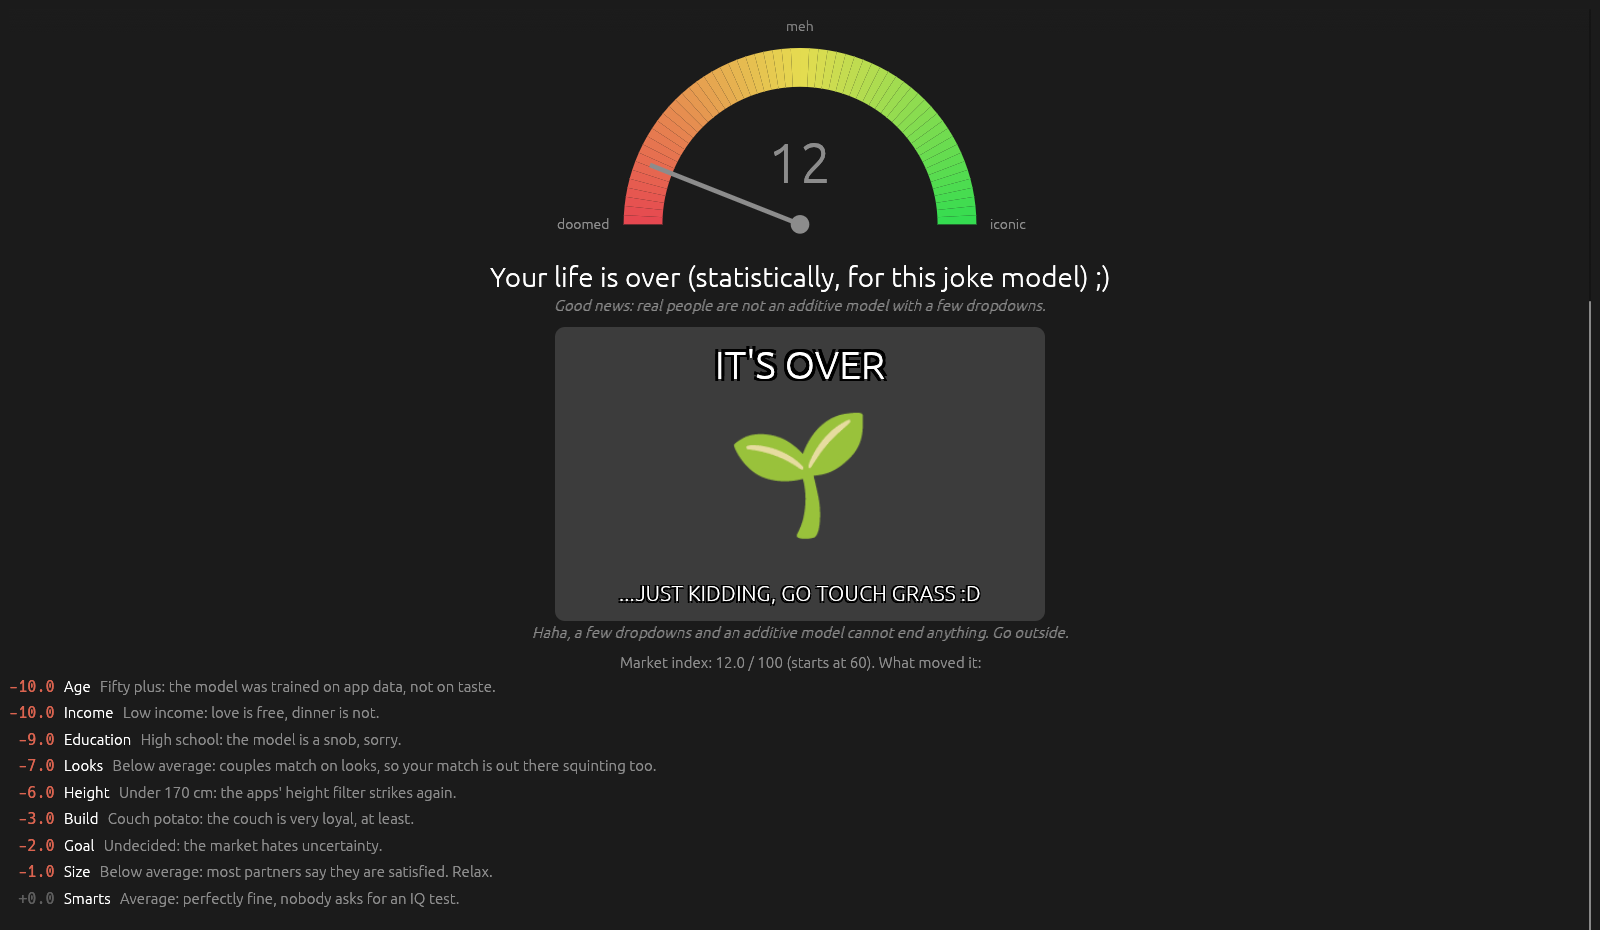
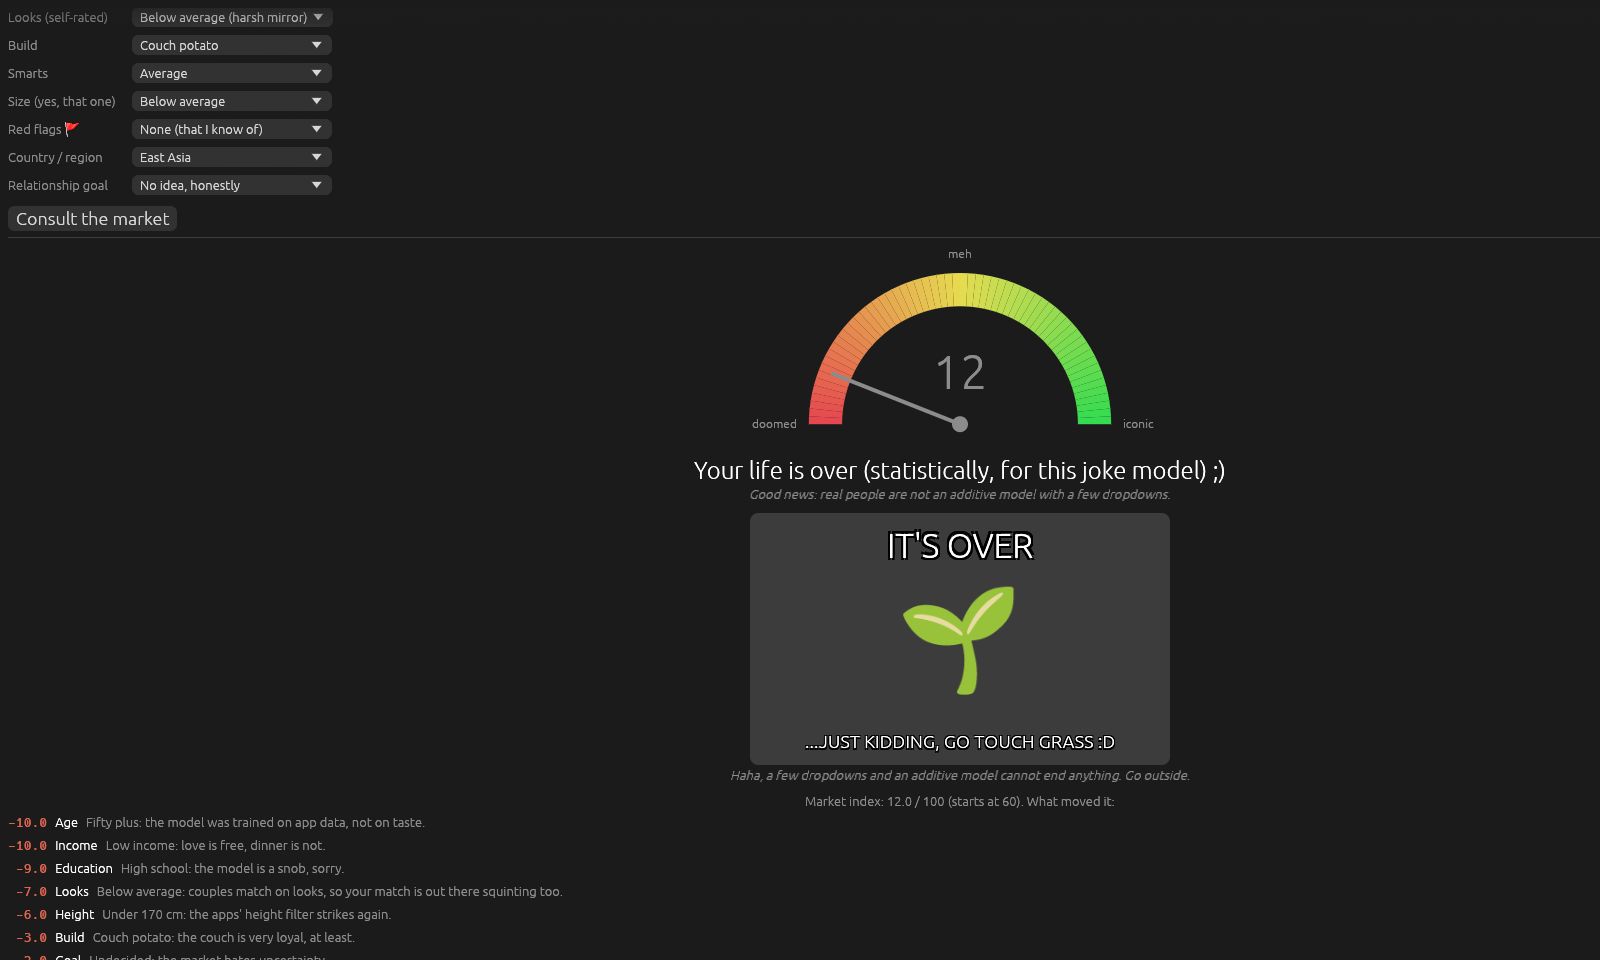
Meter: red flags input (first-date bonus, long-term penalty), screenshots retaken

diff --git a/app/src/model.rs b/app/src/model.rs
@@ -36,6 +36,9 @@
 //!  * The relationship goal reweights everything: short-term choices lean on
 //!    looks and build, long-term ones on status and smarts (Kenrick et al.
 //!    1990; Li & Kenrick 2006).
+//!  * Red flags (Dark Triad traits, literature_review.md section 11.10): a
+//!    small first-date bonus that turns into a long-term penalty (Jauk et
+//!    al. 2016; Dufner et al. 2013; Ataman et al. 2025). A joke, not advice.
 //!  * Ethnicity is deliberately not an input: the studies on it document
 //!    discrimination, and a score would repeat it (review, section 11.8).
 //!
@@ -377,6 +380,49 @@ impl Size {
     }
 }
 
+/// Self-rated red flags (narcissism, scheming, charming chaos). A joke input.
+#[derive(Debug, Clone, Copy, PartialEq, Eq, Hash)]
+pub enum RedFlags {
+    /// None that anyone has noticed.
+    None,
+    /// One or two.
+    AFew,
+    /// Several.
+    Several,
+    /// A whole parade.
+    Parade,
+}
+
+impl RedFlags {
+    /// Every variant, in display order.
+    pub const ALL: [RedFlags; 4] = [
+        RedFlags::None,
+        RedFlags::AFew,
+        RedFlags::Several,
+        RedFlags::Parade,
+    ];
+
+    /// Human-readable label.
+    pub const fn label(self) -> &'static str {
+        match self {
+            RedFlags::None => "None (that I know of)",
+            RedFlags::AFew => "A few",
+            RedFlags::Several => "Several",
+            RedFlags::Parade => "A whole parade 🚩",
+        }
+    }
+
+    /// Number of flags, 0 to 3.
+    const fn level(self) -> f32 {
+        match self {
+            RedFlags::None => 0.0,
+            RedFlags::AFew => 1.0,
+            RedFlags::Several => 2.0,
+            RedFlags::Parade => 3.0,
+        }
+    }
+}
+
 /// Everything the user enters.
 #[derive(Debug, Clone, Copy, PartialEq, Eq)]
 pub struct Profile {
@@ -398,6 +444,8 @@ pub struct Profile {
     pub smarts: Smarts,
     /// Penis size (men only; ignored for women).
     pub size: Size,
+    /// Self-rated red flags.
+    pub red_flags: RedFlags,
     /// Country or region.
     pub region: Region,
     /// Relationship goal.
@@ -416,6 +464,7 @@ impl Default for Profile {
             build: Build::Average,
             smarts: Smarts::Average,
             size: Size::PreferNotToSay,
+            red_flags: RedFlags::None,
             region: Region::TurkeyMiddleEast,
             goal: Goal::LongTerm,
         }
@@ -468,6 +517,8 @@ pub enum Factor {
     Smarts,
     /// Penis size (men and non-binary users who answer).
     Size,
+    /// Red flags; already goal-specific, so `goal_weight` leaves it alone.
+    RedFlags,
     /// Relationship goal.
     Goal,
 }
@@ -484,6 +535,7 @@ impl Factor {
             Factor::Build => "Build",
             Factor::Smarts => "Smarts",
             Factor::Size => "Size",
+            Factor::RedFlags => "Red flags",
             Factor::Goal => "Goal",
         }
     }
@@ -783,6 +835,41 @@ fn size_contribution(size: Size, gender: Gender) -> Option<Contribution> {
     })
 }
 
+/// Red-flags contribution: per flag, +3 for casual (capped at +8), -5 for
+/// long-term (capped at -15), -8 for marriage (capped at -24), 0 when
+/// undecided. Red flags win the first date, not the marriage.
+fn red_flags_contribution(flags: RedFlags, goal: Goal) -> Contribution {
+    let level = flags.level();
+    let (delta, note) = match goal {
+        Goal::Casual => (
+            (3.0 * level).min(8.0),
+            "Casual: red flags win the first date. Mostly thanks to confidence.",
+        ),
+        Goal::LongTerm => (
+            (-5.0 * level).max(-15.0),
+            "Long-term: the charm fades once people get to know you. Studies agree.",
+        ),
+        Goal::Marriage => (
+            (-8.0 * level).max(-24.0),
+            "Marriage: red flags win the first date, not the marriage.",
+        ),
+        Goal::Undecided => (
+            0.0,
+            "Undecided: the flags are waving at nobody in particular.",
+        ),
+    };
+    let note = if flags == RedFlags::None {
+        "No red flags: boring on paper, great in year five."
+    } else {
+        note
+    };
+    Contribution {
+        factor: Factor::RedFlags,
+        delta,
+        note,
+    }
+}
+
 /// How much the relationship goal stretches or shrinks each factor.
 /// Short-term choices lean on looks and build; long-term ones on status and
 /// smarts (Kenrick et al. 1990; Li & Kenrick 2006). Goal itself is 1.
@@ -838,6 +925,7 @@ pub fn contributions(profile: &Profile) -> Vec<Contribution> {
     out.push(build_contribution(profile.build, profile.gender));
     out.push(smarts_contribution(profile.smarts));
     out.extend(size_contribution(profile.size, profile.gender));
+    out.push(red_flags_contribution(profile.red_flags, profile.goal));
     out.push(goal_contribution(profile.goal));
     for c in &mut out {
         c.delta *= goal_weight(profile.goal, c.factor);
@@ -982,6 +1070,17 @@ mod tests {
             assert!(delta.abs() <= 1.0);
         }
         assert!(size_contribution(Size::PreferNotToSay, Gender::Man).is_none());
+    }
+
+    #[test]
+    fn red_flags_help_casual_and_hurt_marriage() {
+        let d = |flags, goal| red_flags_contribution(flags, goal).delta;
+        assert_eq!(d(RedFlags::Parade, Goal::Casual), 8.0);
+        assert_eq!(d(RedFlags::AFew, Goal::LongTerm), -5.0);
+        assert_eq!(d(RedFlags::Parade, Goal::Marriage), -24.0);
+        assert_eq!(d(RedFlags::None, Goal::Marriage), 0.0);
+        // The goal weight does not stretch it a second time.
+        assert_eq!(goal_weight(Goal::Casual, Factor::RedFlags), 1.0);
     }
 
     #[test]

diff --git a/app/src/demo.rs b/app/src/demo.rs
@@ -2,7 +2,7 @@
 //! the screenshots in the README and the blog post.
 
 use crate::model::{
-    Build, Education, Gender, Goal, IncomeBand, Looks, Profile, Region, Size, Smarts,
+    Build, Education, Gender, Goal, IncomeBand, Looks, Profile, RedFlags, Region, Size, Smarts,
 };
 
 /// Every demo, by the name given after `--demo`.
@@ -19,6 +19,7 @@ pub const DEMOS: [(&str, Profile); 4] = [
             build: Build::GymRegular,
             smarts: Smarts::Smart,
             size: Size::PreferNotToSay,
+            red_flags: RedFlags::None,
             region: Region::TurkeyMiddleEast,
             goal: Goal::LongTerm,
         },
@@ -35,6 +36,7 @@ pub const DEMOS: [(&str, Profile); 4] = [
             build: Build::Average,
             smarts: Smarts::VerySmart,
             size: Size::PreferNotToSay,
+            red_flags: RedFlags::None,
             region: Region::SouthernEurope,
             goal: Goal::Casual,
         },
@@ -51,6 +53,7 @@ pub const DEMOS: [(&str, Profile); 4] = [
             build: Build::CouchPotato,
             smarts: Smarts::Average,
             size: Size::BelowAverage,
+            red_flags: RedFlags::None,
             region: Region::EastAsia,
             goal: Goal::Undecided,
         },
@@ -67,6 +70,7 @@ pub const DEMOS: [(&str, Profile); 4] = [
             build: Build::CouchPotato,
             smarts: Smarts::GalaxyBrain,
             size: Size::PreferNotToSay,
+            red_flags: RedFlags::None,
             region: Region::EastAsia,
             goal: Goal::Undecided,
         },

diff --git a/app/src/ui.rs b/app/src/ui.rs
@@ -4,7 +4,7 @@ use eframe::egui::{self, Color32, RichText};
 
 use crate::model::{
     self, Build, Contribution, Education, Gender, Goal, HEIGHT_RANGE_CM, IncomeBand, Looks,
-    MAX_AGE, MIN_AGE, Profile, ProfileError, Region, Size, Smarts, Verdict,
+    MAX_AGE, MIN_AGE, Profile, ProfileError, RedFlags, Region, Size, Smarts, Verdict,
 };
 use crate::{gauge, memes};
 
@@ -171,6 +171,16 @@ impl MeterApp {
                     enum_combo(ui, "size", &mut self.profile.size, &Size::ALL, Size::label);
                     ui.end_row();
                 }
+
+                ui.label("Red flags 🚩");
+                enum_combo(
+                    ui,
+                    "red_flags",
+                    &mut self.profile.red_flags,
+                    &RedFlags::ALL,
+                    RedFlags::label,
+                );
+                ui.end_row();
 
                 ui.label("Country / region");
                 enum_combo(

diff --git a/README.md b/README.md
@@ -10,7 +10,7 @@ deliberately silly desktop app, the **Hypergamy Meter**.
 ## The Hypergamy Meter
 
 You enter a few facts (age, gender, education, income band, optional height,
-self-rated looks, build and smarts, an optional size joke for men,
+self-rated looks, build and smarts, red flags, an optional size joke for men,
 country/region, relationship goal), press **Consult the market**, and the app
 gives you a completely unscientific "market verdict":
 
